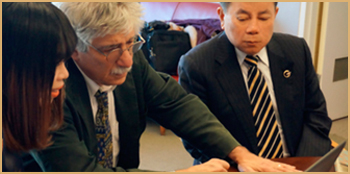
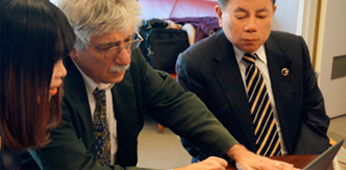
page of humanity has been completed

diff --git a/assets/scss/humanity.scss b/assets/scss/humanity.scss
@@ -25,11 +25,15 @@
             &.img {
                 margin: 10px auto;
             }
+            &.img img {
+                width: 98.8%;
+                border: 2px solid #dcb071;
+            }
             &.img-two img {
-                width: 49%;
+                width: 47.8%;
             }
             &.img-three img {
-                width: 32%;
+                width: 30.8%;
                 margin-right: 2%;
             }
             &.text-three span {
